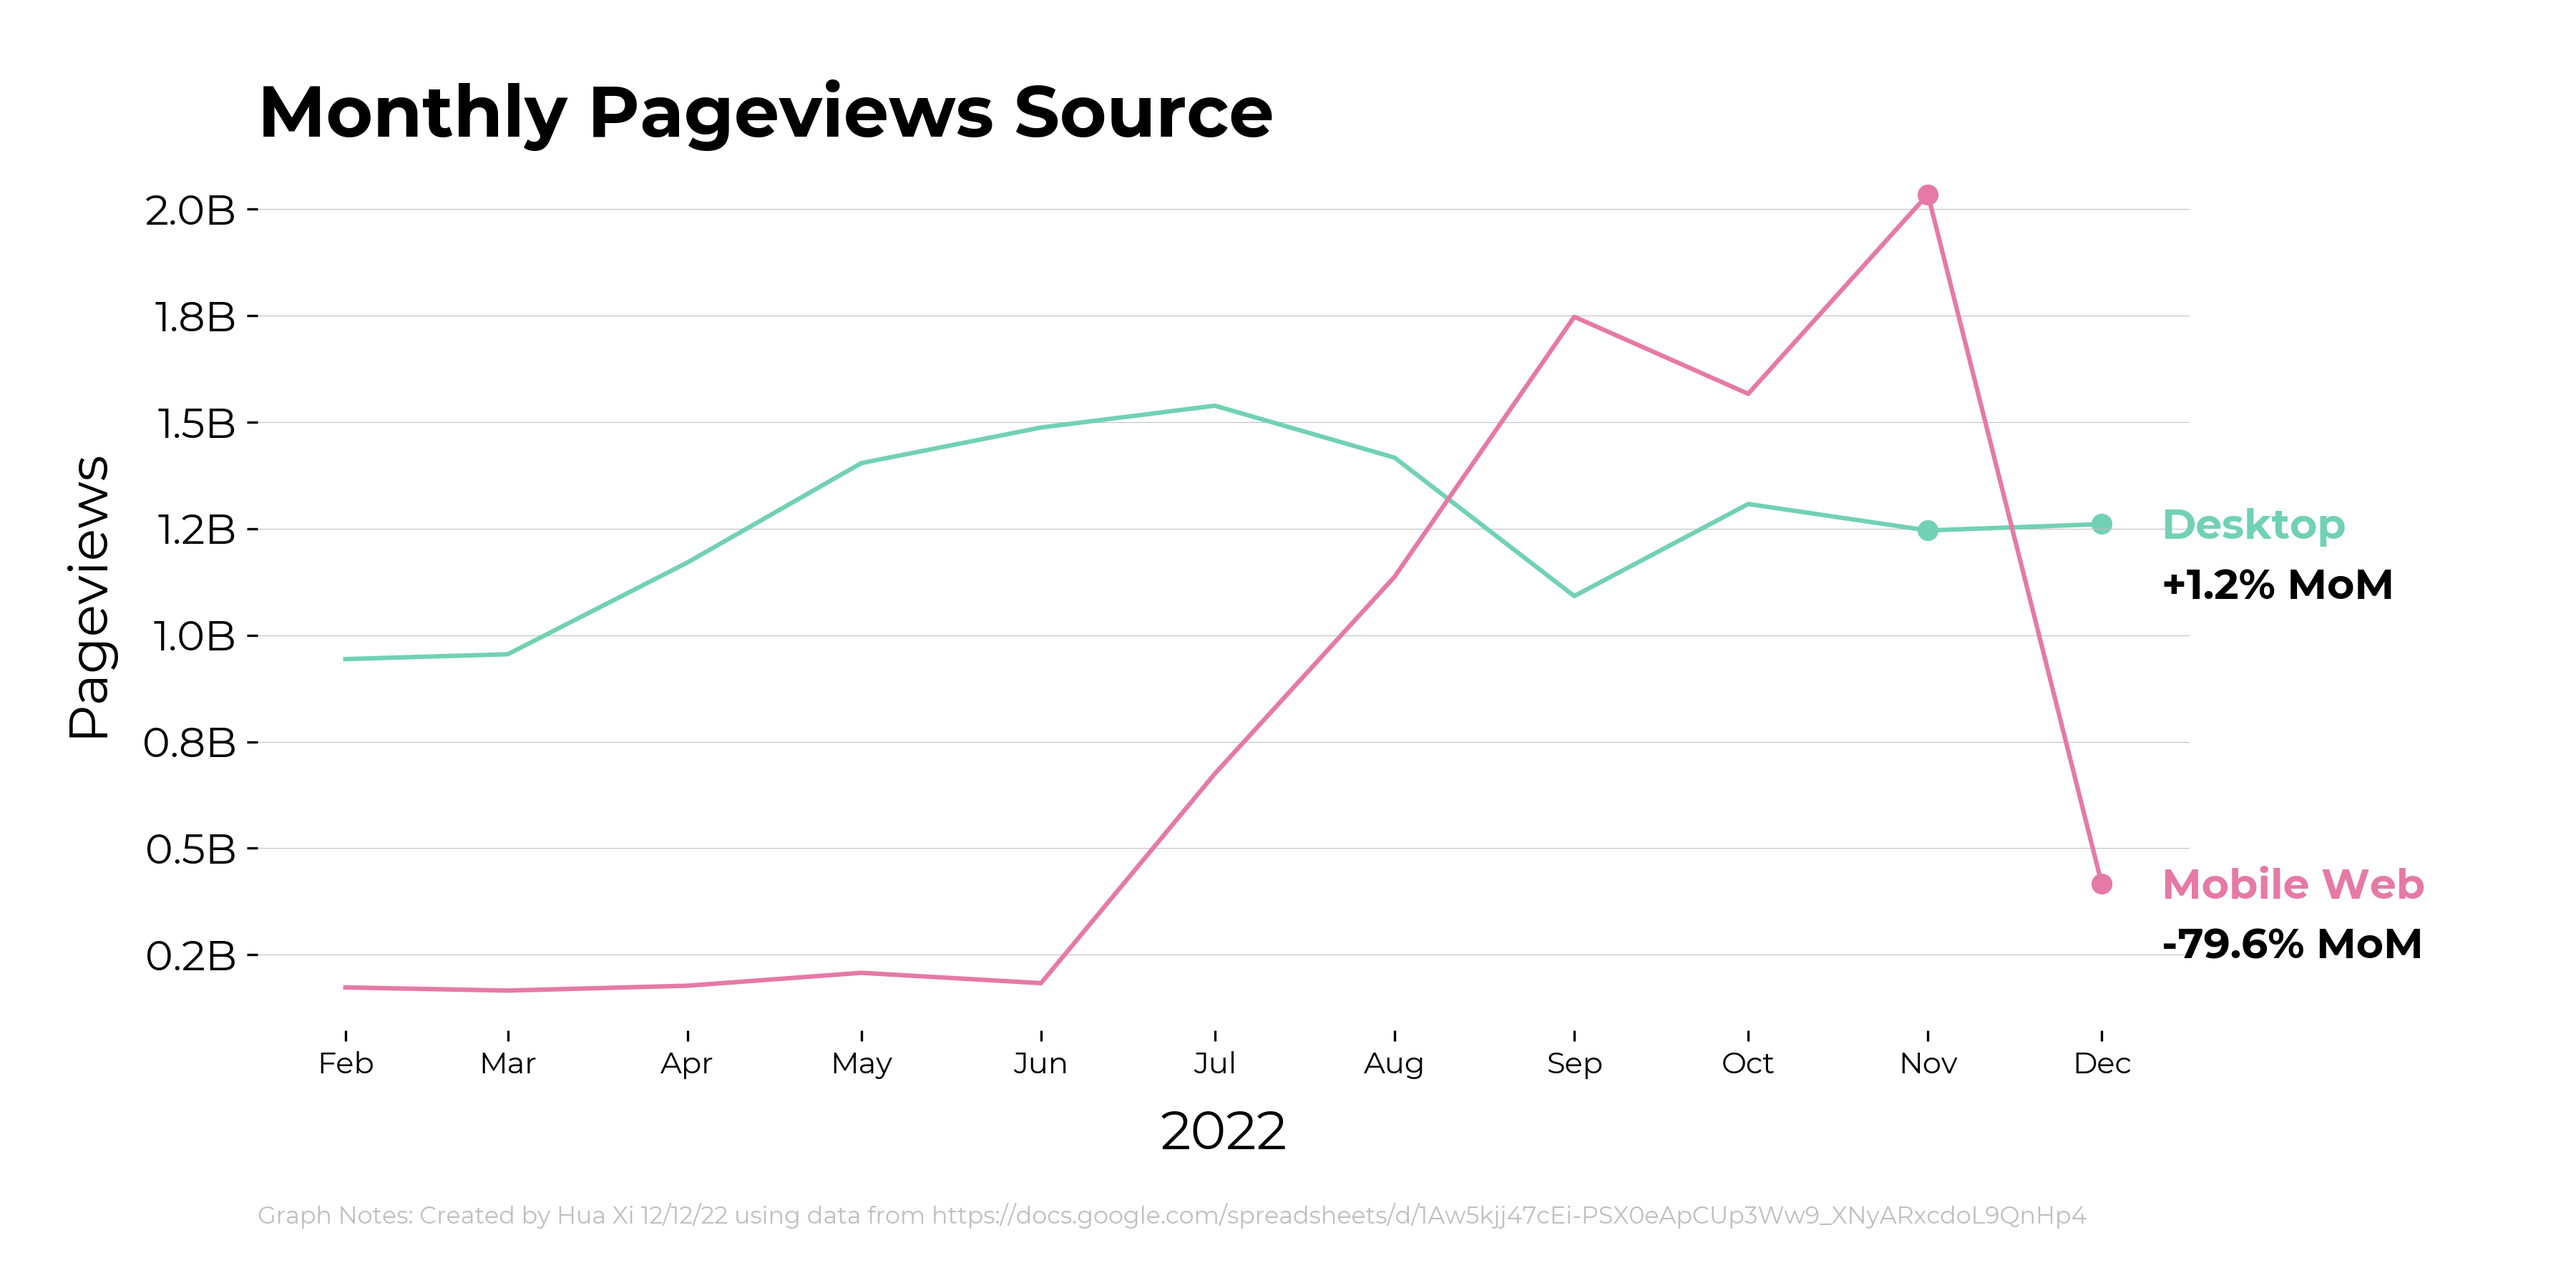
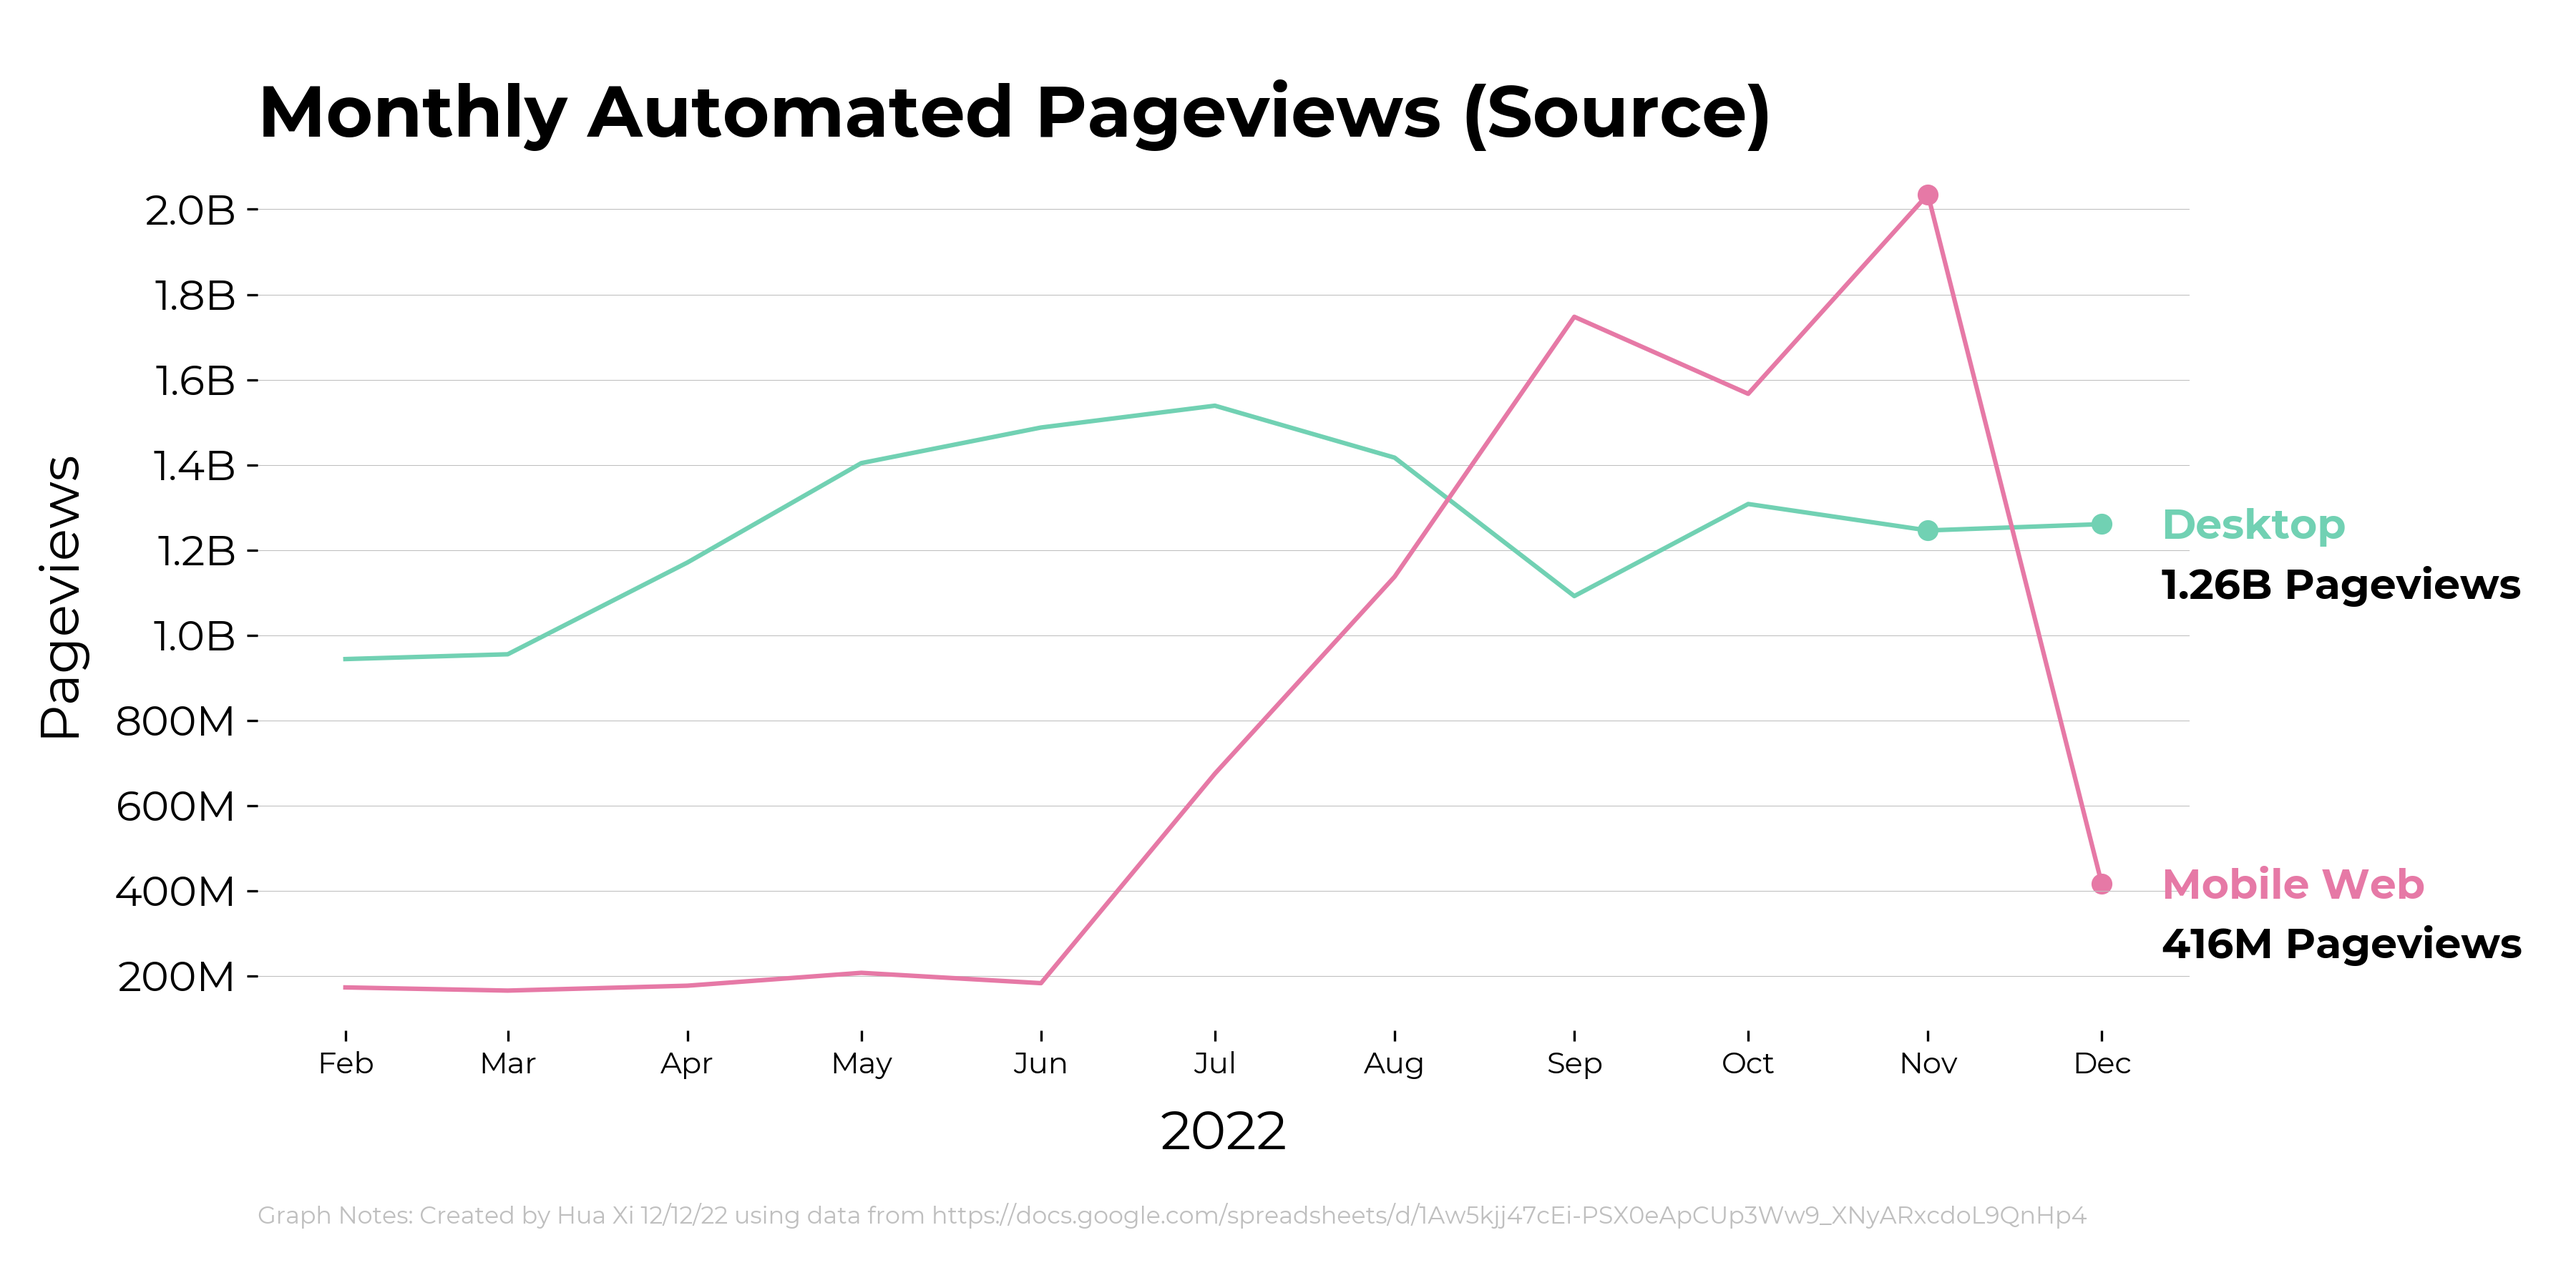
adjusted to feedback

diff --git a/pageview_breakdowns/pageviews_yoy.py b/pageview_breakdowns/pageviews_yoy.py
@@ -27,7 +27,7 @@ df.sort_values(by='timestamp')
 df = df[df["timestamp"].isin(pd.date_range("2022-02-01", "2022-12-01"))]
 
 #---ADJUST PLOT SIZE---
-plt.figure(figsize=(10, 6))
+plt.figure(figsize=(12, 6))
 
 #---PREPARE TO PLOT
 #create a dictionary for colors
@@ -58,20 +58,24 @@ plt.scatter(mom_highlight.timestamp, mom_highlight.sum_view_count,
 
 #---FORMATTING---
 #add title and labels
-plt.title('Monthly Pageviews 2022',font='Montserrat',weight='bold',fontsize=24,loc='left')
-#plt.xlabel("Month",font='Montserrat', fontsize=18, labelpad=10) #source serif pro
+plt.title('Monthly Automated Pageviews',font='Montserrat',weight='bold',fontsize=24,loc='left')
+plt.xlabel("2022",font='Montserrat', fontsize=18, labelpad=10) #source serif pro
 #plt.ylabel("Active Editors",font='Montserrat', fontsize=18)
 
 #expand bottom margin
-#plt.subplots_adjust(bottom=0.2, left=0.1, right=0.75)
+plt.subplots_adjust(bottom=0.15,left=0.1,right=0.825)
 
 #remove bounding box
 for pos in ['right', 'top', 'bottom', 'left']:
 	plt.gca().spines[pos].set_visible(False)
 
 #format y-axis labels
+def y_label_formatter(value):
+	formatted_value = '{:1.1f}B'.format(value*1e-9)
+	formatted_value = formatted_value.replace('.0','')
+	return formatted_value
 current_values = plt.gca().get_yticks()
-plt.gca().set_yticklabels(['{:1.1f}B'.format(x*1e-9) for x in current_values])
+plt.gca().set_yticklabels([y_label_formatter(x) for x in current_values])
 plt.yticks(fontname = 'Montserrat',fontsize=14)
 
 
@@ -84,13 +88,10 @@ plt.xticks(ticks=df['timestamp'],labels=date_labels,fontsize=10,fontname = 'Mont
 #---ADD ANNOTATIONS---
 #add combined annotation
 def annotate():
-	change_percent = ((df['sum_view_count'].iat[-1] - df['sum_view_count'].iat[-2]) /  df['sum_view_count'].iat[-2]) * 100
-	if change_percent > 0:
-		annotation = f" +{change_percent:.1f}% MoM" + " " + note
-	else:
-		annotation = f" {change_percent:.1f}% MoM" + " " + note
+	pageviews = df['sum_view_count'].iat[-1]
+	annotation = '{:1.2f}B Pageviews'.format(pageviews*1e-9)
 	plt.annotate(annotation,
-		xy = (df['timestamp'].iat[-1],df['sum_view_count'].iat[-1]),
+		xy = (df['timestamp'].iat[-1],pageviews),
 		xytext = (20,-5),
 		xycoords = 'data',
 		textcoords = 'offset points',
@@ -102,7 +103,7 @@ def annotate():
 annotate()
 
 #data notes
-plt.figtext(0.1, 0.025, "Graph Notes: Created by Hua Xi 12/12/22 using data from https://docs.google.com/spreadsheets/d/1Aw5kjj47cEi-PSX0eApCUp3Ww9_XNyARxcdoL9QnHp4", fontsize=8, family='Montserrat',color= wmf_colors['black25'])
+plt.figtext(0.1, 0.015, "Graph Notes: Created by Hua Xi 12/12/22 using data from https://docs.google.com/spreadsheets/d/1Aw5kjj47cEi-PSX0eApCUp3Ww9_XNyARxcdoL9QnHp4", fontsize=8, family='Montserrat',color= wmf_colors['black25'])
 
 #---SHOW GRAPH---
 save_file_name = "charts/" + outfile_name

diff --git a/pageview_breakdowns/pageviews_source.py b/pageview_breakdowns/pageviews_source.py
@@ -72,7 +72,7 @@ plt.scatter(mom_highlight.timestamp, mom_highlight.mobile_web,
 
 #---FORMATTING---
 #add title and labels
-plt.title('Monthly Pageviews Source',font='Montserrat',weight='bold',fontsize=24,loc='left')
+plt.title('Monthly Automated Pageviews (Source)',font='Montserrat',weight='bold',fontsize=24,loc='left')
 plt.xlabel("2022",font='Montserrat', fontsize=18, labelpad=10) #source serif pro
 plt.ylabel("Pageviews",font='Montserrat', fontsize=18,labelpad=10)
 
@@ -84,15 +84,24 @@ for pos in ['right', 'top', 'bottom', 'left']:
 	plt.gca().spines[pos].set_visible(False)
 
 #format y-axis labels
+def y_label_formatter(value):
+	if value >= 1e9:
+		formatted_value = '{:1.1f}B'.format(value*1e-9)
+		formatted_value = formatted_value.replace('.0','')
+	else:
+		formatted_value = '{:1.0f}M'.format(value*1e-6)
+	return formatted_value
+plt.yticks(range(200000000,2200000000,200000000))
 current_values = plt.gca().get_yticks()
-plt.gca().set_yticklabels(['{:1.1f}B'.format(x*1e-9) for x in current_values])
+#plt.gca().set_yticklabels(['{:1.0f}M'.format(x*1e-6) for x in current_values])
+plt.gca().set_yticklabels([y_label_formatter(x) for x in current_values])
 plt.yticks(fontname = 'Montserrat',fontsize=14)
 
 #add monthly x-axis labels
 date_labels = []
 for dl in df['timestamp']:
 	date_labels.append(datetime.datetime.strftime(dl, '%b'))
-plt.xticks(ticks=df_21['timestamp'],labels=date_labels,fontsize=10,fontname = 'Montserrat')
+plt.xticks(ticks=df['timestamp'],labels=date_labels,fontsize=10,fontname = 'Montserrat')
 
 #---ADD ANNOTATIONS---
 #add combined annotation
@@ -107,13 +116,13 @@ def annotate(data_label, legend_label, label_color):
 		weight='bold',
 		wrap = 'True',
 		family='Montserrat')
-	change_percent = ((df[data_label].iat[-1] - df[data_label].iat[-2]) /  df[data_label].iat[-2]) * 100
-	if change_percent > 0:
-		mom_annotation = f"+{change_percent:.1f}% MoM"
+	pageviews = df[data_label].iat[-1]
+	if pageviews >= 1e9:
+		annotation = '{:1.2f}B Pageviews'.format(pageviews*1e-9)
 	else:
-		mom_annotation = f"{change_percent:.1f}% MoM"
-	plt.annotate(mom_annotation,
-		xy = (df['timestamp'].iat[-1],df[data_label].iat[-1]),
+		annotation = '{:1.0f}M Pageviews'.format(pageviews*1e-6)
+	plt.annotate(annotation,
+		xy = (df['timestamp'].iat[-1],pageviews),
 		xytext = (20,-25),
 		xycoords = 'data',
 		textcoords = 'offset points',

diff --git a/pageview_breakdowns/referral.py b/pageview_breakdowns/referral.py
@@ -74,7 +74,7 @@ none_dataloss.sort_values(by='timestamp')
 none_dataloss['x_order'] = range(0, len(none_dataloss))
 
 #---ADJUST PLOT SIZE---
-plt.figure(figsize=(12, 6))
+plt.figure(figsize=(12, 7))
 
 #---PREPARE TO PLOT
 #create a dictionary for colors
@@ -145,7 +145,7 @@ plt.xlabel("Month",font='Montserrat', fontsize=18, labelpad=10) #source serif pr
 plt.ylabel("Pageviews",font='Montserrat', fontsize=18,labelpad=10)
 
 #expand bottom margin
-plt.subplots_adjust(bottom=0.25, left=0.1, right=0.85)
+plt.subplots_adjust(bottom=0.275, left=0.1, right=0.85)
 
 #remove bounding box
 for pos in ['right', 'top', 'bottom', 'left']:
@@ -175,7 +175,7 @@ plt.legend(frameon=False,
 #add combined annotation
 def annotate(data_label, legend_label, label_color):
 	plt.annotate(legend_label,
-		xy = (df_21['x_order'].iat[-1],df_21[data_label].iat[-1]),
+		xy = (df_22['x_order'].iat[-1],df_22[data_label].iat[-1]),
 		xytext = (20,-5),
 		xycoords = 'data',
 		textcoords = 'offset points',
@@ -184,9 +184,11 @@ def annotate(data_label, legend_label, label_color):
 		weight='bold',
 		wrap = 'True',
 		family='Montserrat')
-annotate('external','External',wmf_colors['purple'])
-annotate('internal','Internal Web',wmf_colors['green'])
+annotate('external','External (Search Engine)',wmf_colors['purple'])
+annotate('internal','Internal',wmf_colors['green'])
 annotate('none','None',wmf_colors['orange'])
+#data losee note
+plt.figtext(0.5, 0.1, "Data between July 2021 and January 2022 corrected for data loss.", fontsize=8, family='Montserrat',color= 'black',horizontalalignment='center')
 #data notes
 plt.figtext(0.1, 0.05, "Graph Notes: Created by Hua Xi 12/12/22 using data from https://docs.google.com/spreadsheets/d/1Aw5kjj47cEi-PSX0eApCUp3Ww9_XNyARxcdoL9QnHp4", fontsize=8, family='Montserrat',color= wmf_colors['black25'])
 
